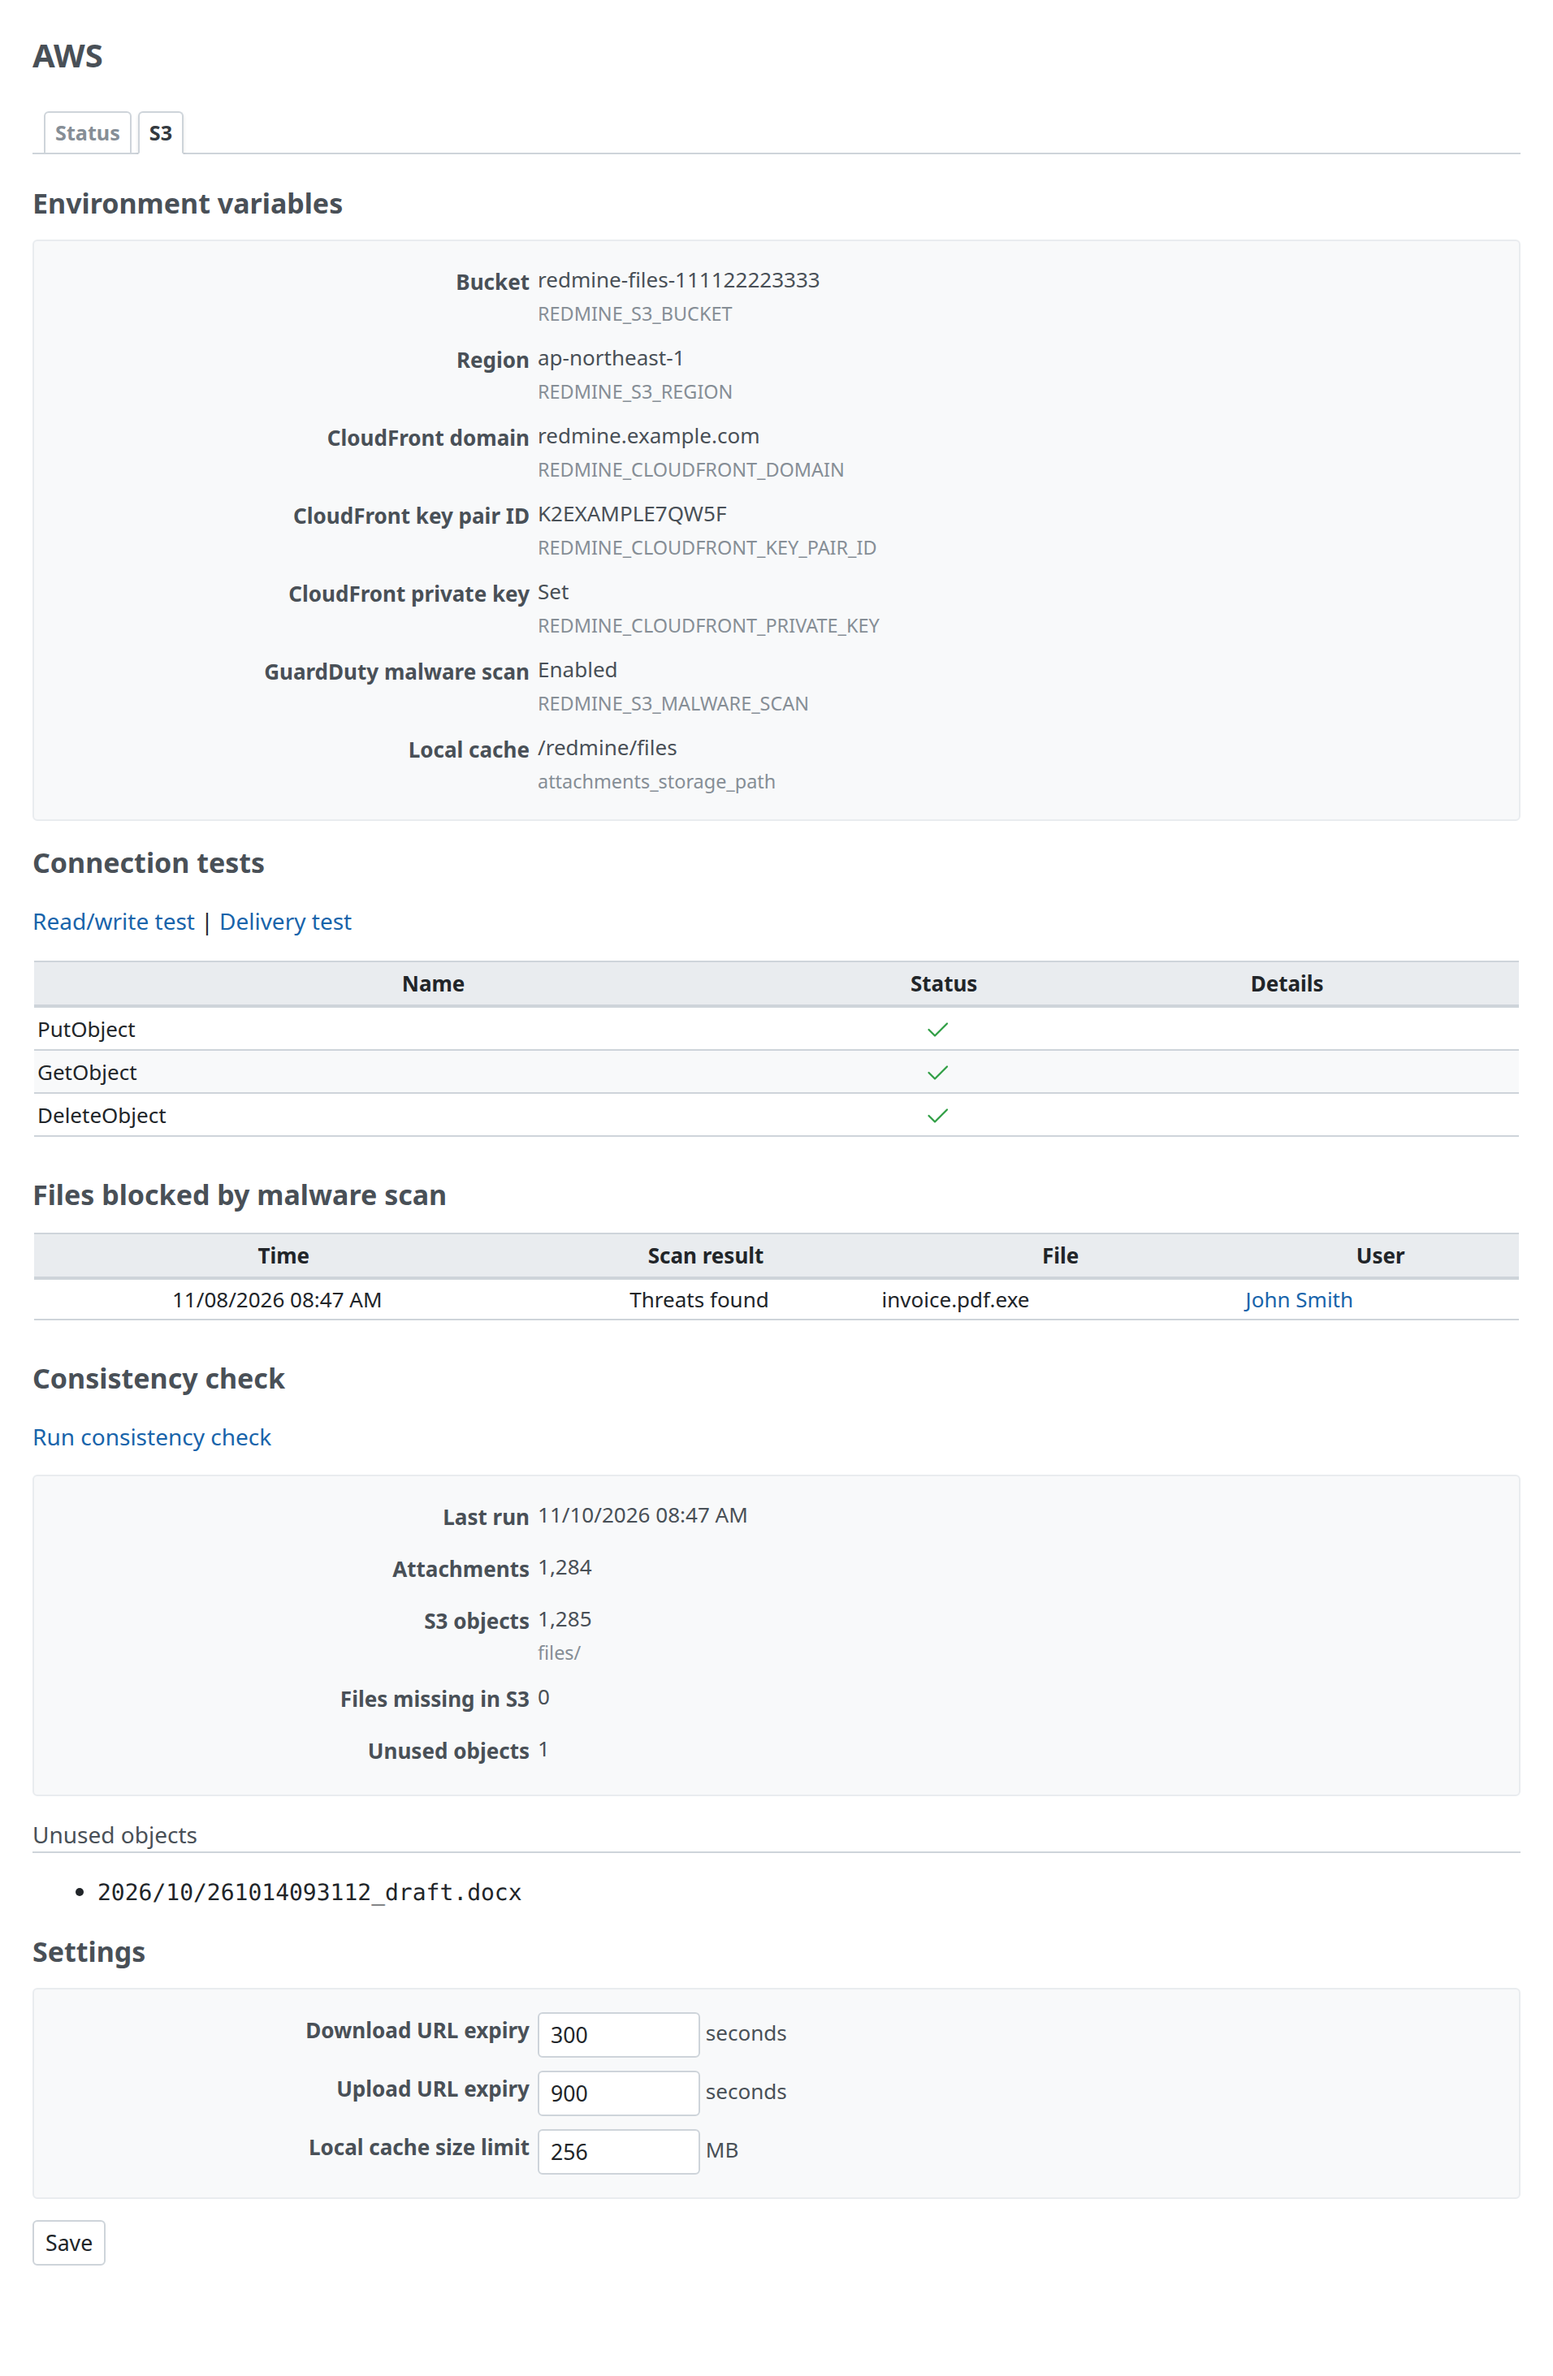
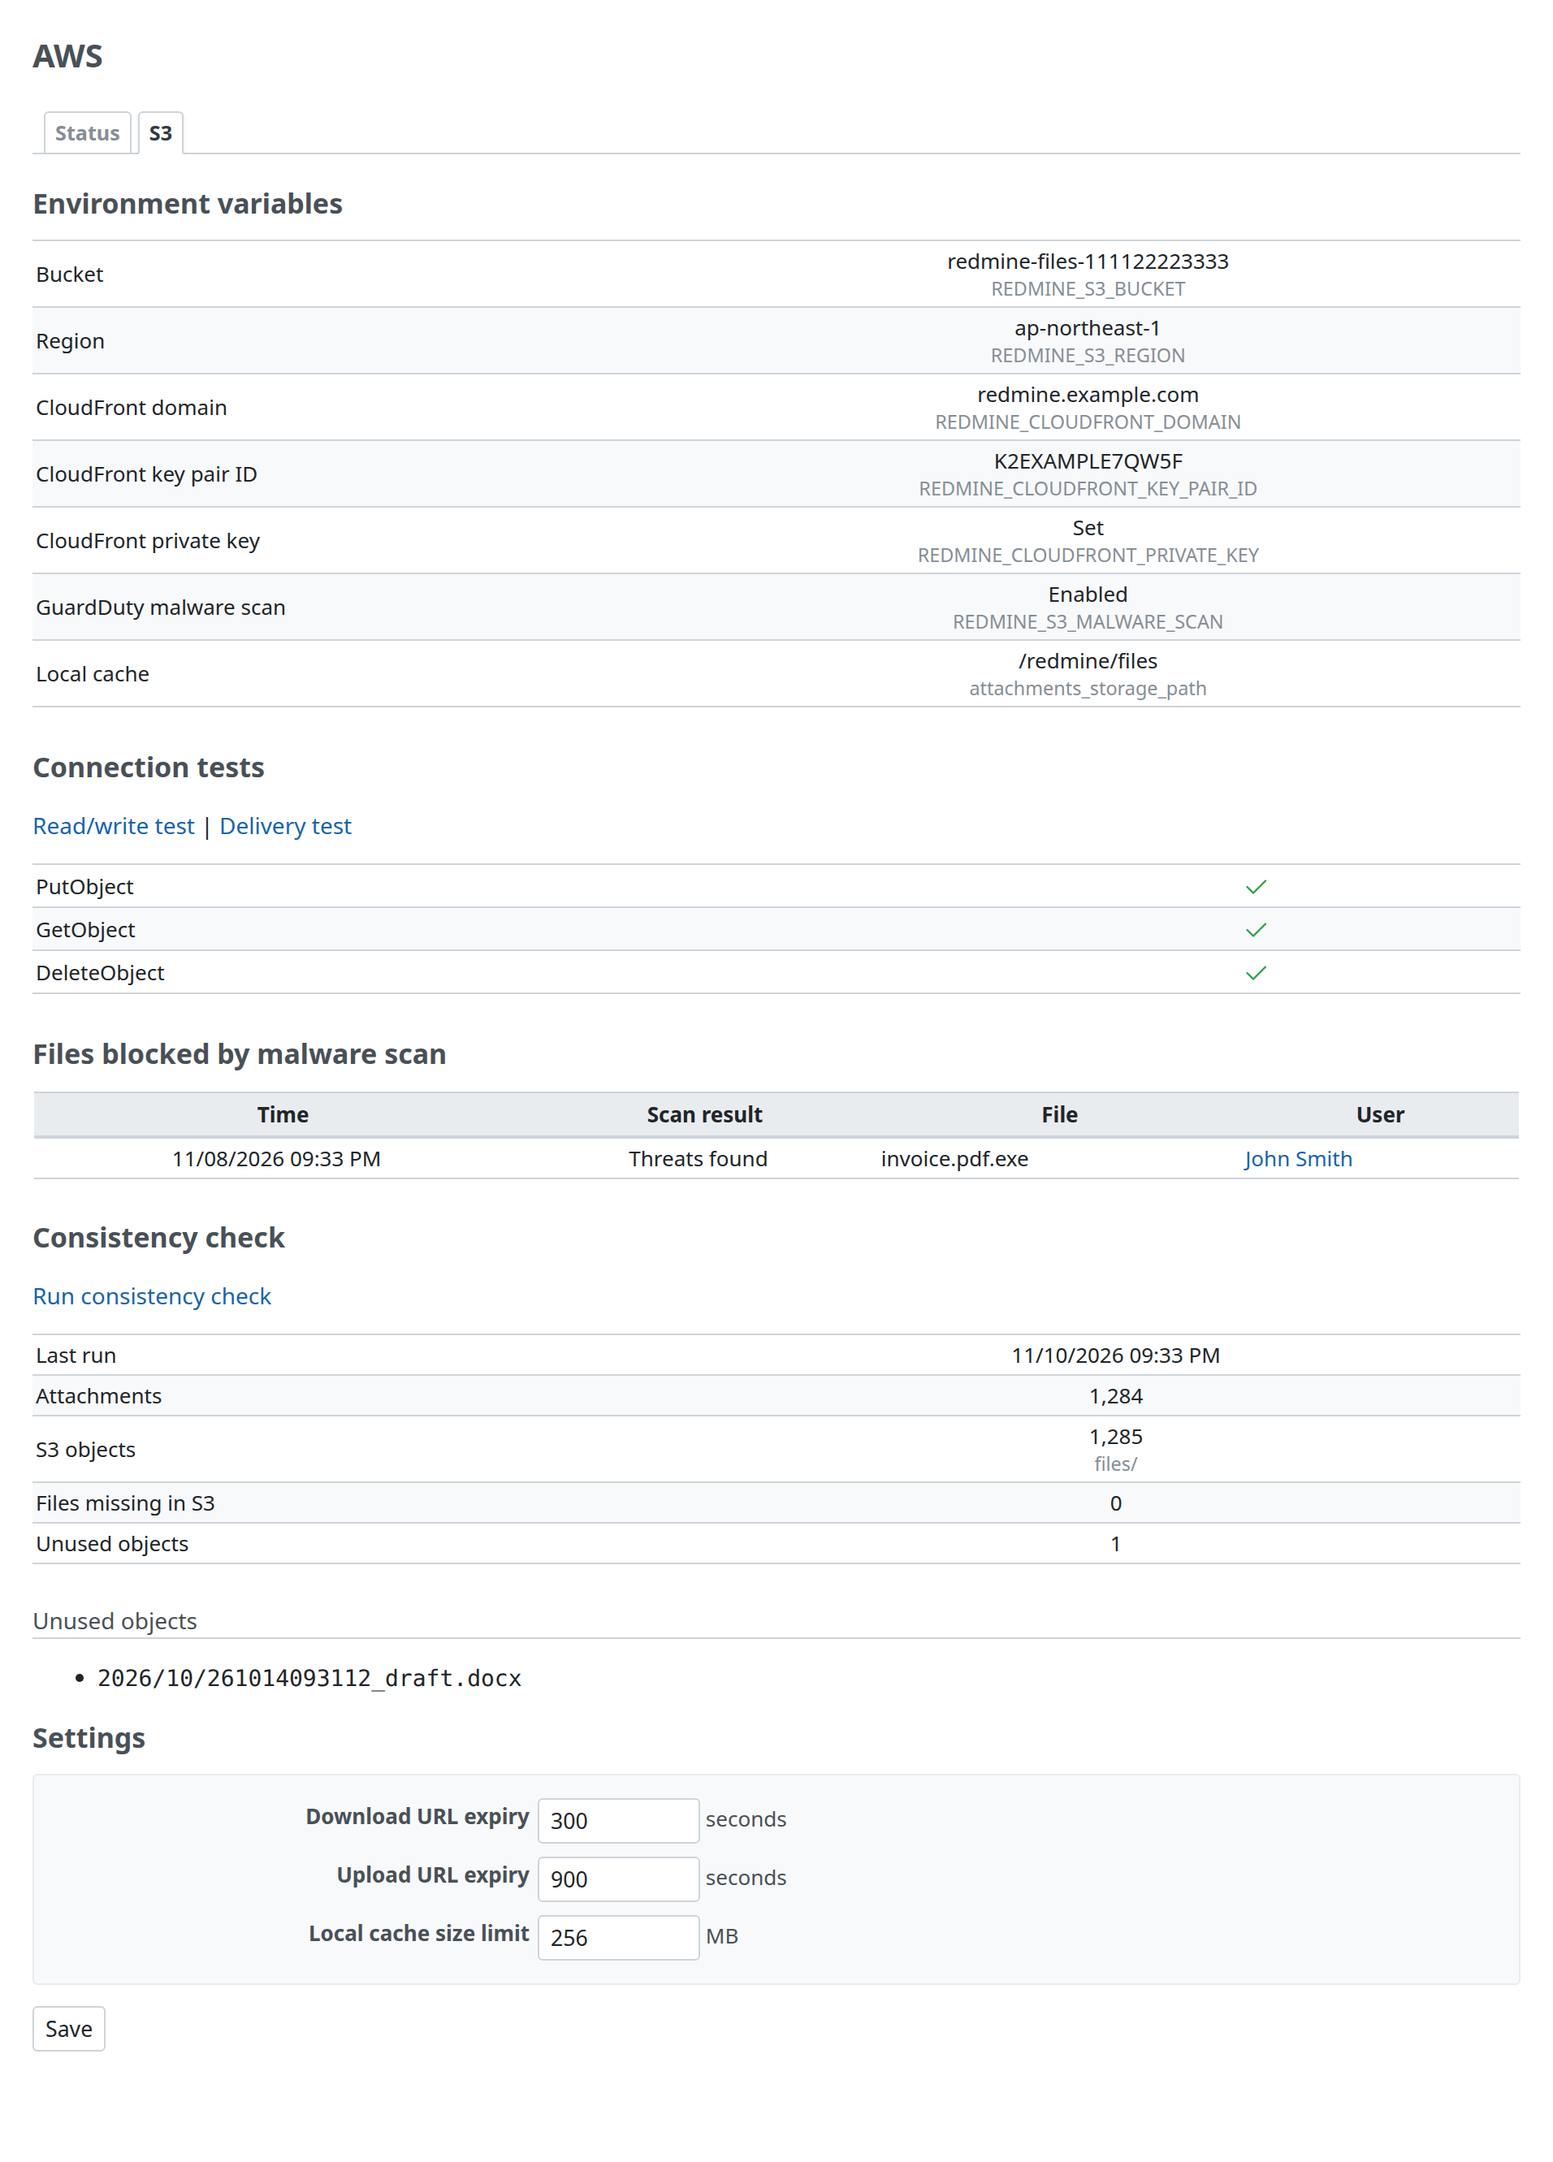
Show the S3 tab's values as Administration › Information does
The environment variables and the consistency check were laid out as a
settings form (.box.tabular), and the connection tests as a list with a
header row. Values that the tab does not edit are now a table.list
without a header row, through redmine_aws's partial aws_admin/values,
as on the Status tab: the environment variable is a note under each
value, and each test result has Redmine's OK or failed icon. The rows
are built in AwsS3AdminHelper. Screenshots retaken in English and
Japanese.

diff --git a/app/helpers/aws_s3_admin_helper.rb b/app/helpers/aws_s3_admin_helper.rb
@@ -1,0 +1,40 @@
+# frozen_string_literal: true
+
+# The rows of the values that the "S3" tab shows, for redmine_aws's partial
+# aws_admin/values (as Administration › Information shows values).
+module AwsS3AdminHelper
+  # The environment variables, each with the variable as its note.
+  def aws_s3_environment_rows
+    s3 = RedmineAws::S3
+    [[:bucket, s3::ENV_BUCKET, s3.bucket], [:region, s3::ENV_REGION, s3.region],
+     [:domain, s3::ENV_DOMAIN, s3.cloudfront_domain], [:key_pair_id, s3::ENV_KEY_PAIR_ID, s3.key_pair_id],
+     [:private_key, s3::ENV_PRIVATE_KEY, l(s3.private_key? ? :label_aws_s3_set : :label_aws_s3_not_set)],
+     [:malware_scan, s3::ENV_MALWARE_SCAN, l(s3.malware_scan? ? :label_aws_s3_enabled : :label_aws_s3_disabled)]]
+      .map { |name, env, value| { name: l(:"field_aws_s3_#{name}"), value: value || '-', note: env } }
+      .push(name: l(:field_aws_s3_storage_path), value: Attachment.storage_path, note: 'attachments_storage_path')
+  end
+
+  # The results of a connection test: [name, ok, detail].
+  def aws_s3_check_rows(results)
+    results.map { |name, ok, detail| { name: name, ok: ok, value: detail } }
+  end
+
+  # The last consistency check, running or finished.
+  def aws_s3_reconciliation_rows(result)
+    return aws_s3_running_rows(result) if result['finished_at'].blank?
+
+    [{ name: l(:field_aws_s3_finished_at), value: format_time(Time.iso8601(result['finished_at'])) }] +
+      %w[attachments objects missing_count unused_count].map { |key| aws_s3_count_row(result, key) }
+  end
+
+  # A count of the consistency check; the objects are those under files/.
+  def aws_s3_count_row(result, key)
+    { name: l(:"field_aws_s3_#{key.delete_suffix('_count')}"), value: number_with_delimiter(result[key]),
+      note: ('files/' if key == 'objects') }
+  end
+
+  def aws_s3_running_rows(result)
+    [{ name: l(:field_status), value: l(:label_aws_s3_running) },
+     { name: l(:field_aws_s3_started_at), value: format_time(Time.iso8601(result['started_at'])) }]
+  end
+end

diff --git a/test/functional/aws_s3_admin_checks_test.rb b/test/functional/aws_s3_admin_checks_test.rb
@@ -47,16 +47,16 @@ module RedmineAws
       def test_shows_the_counts_of_the_reconciliation
         show_reconciliation
 
-        assert_select '#aws-s3-reconciliation p', text: /Attachments\s*1,200/
-        assert_select '#aws-s3-reconciliation p', text: %r{S3 objects\s*1,201\s*files/}
-        assert_select '#aws-s3-reconciliation p', text: /Files missing in S3\s*1/
-        assert_select '#aws-s3-reconciliation p', text: /Unused objects\s*2/
+        assert_select 'table.list.values.reconciliation tr', text: /Attachments\s*1,200/
+        assert_select 'table.list.values.reconciliation tr', text: %r{S3 objects\s*1,201\s*files/}
+        assert_select 'table.list.values.reconciliation tr', text: /Files missing in S3\s*1/
+        assert_select 'table.list.values.reconciliation tr', text: /Unused objects\s*2/
       end
 
       def test_shows_the_time_and_the_keys_of_the_reconciliation
         show_reconciliation
 
-        assert_select '#aws-s3-reconciliation p', text: /Last run\s*2026-11-06 \d\d:44/
+        assert_select 'table.list.values.reconciliation tr', text: /Last run\s*2026-11-06 \d\d:44/
         assert_not_includes response.body, '2026-11-06T22:44:01Z'
         assert_select 'li code', text: 'files/2026/11/a'
       end
@@ -66,8 +66,8 @@ module RedmineAws
         with_s3(stub_client) do
           with_settings(date_format: '%Y-%m-%d', time_format: '%H:%M') { get :show }
 
-          assert_select '#aws-s3-reconciliation p', text: /Status\s*Running/
-          assert_select '#aws-s3-reconciliation p', text: /Started at\s*2026-11-06 \d\d:40/
+          assert_select 'table.list.values.reconciliation tr', text: /Status\s*Running/
+          assert_select 'table.list.values.reconciliation tr', text: /Started at\s*2026-11-06 \d\d:40/
         end
       end
 

diff --git a/test/functional/aws_s3_admin_values_test.rb b/test/functional/aws_s3_admin_values_test.rb
@@ -1,0 +1,34 @@
+# frozen_string_literal: true
+
+require_relative '../test_helper'
+require_relative '../support/admin_controller_setup'
+
+module RedmineAws
+  module S3
+    # The values that the "S3" tab shows but does not edit, as Administration ›
+    # Information shows them: redmine_aws's partial aws_admin/values, a
+    # table.list without a header row.
+    class AwsS3AdminValuesTest < Redmine::ControllerTest
+      include S3::TestHelper
+      include AdminControllerSetup
+
+      def test_the_environment_variables
+        with_s3(stub_client) { get :show }
+
+        assert_select 'table.list.values.environment th', 0
+        assert_select 'table.list.values.environment tr', 7
+        assert_select 'table.list.values.environment tr td.value em.info', text: 'REDMINE_S3_BUCKET'
+        assert_select 'div.box.tabular', 1, 'only the settings form'
+      end
+
+      def test_the_results_of_a_connection_test
+        results = [['PutObject', true, ''], ['GetObject', false, 'Aws::S3::Errors::NoSuchKey']]
+        with_s3(stub_client) { get :show, flash: { aws_s3_checks: results } }
+
+        assert_select 'table.list.values.checks th', 0
+        assert_select 'table.list.values.checks tr.ok td.tick span.icon-ok'
+        assert_select 'table.list.values.checks tr.failed td.value', text: 'Aws::S3::Errors::NoSuchKey'
+      end
+    end
+  end
+end

diff --git a/test/functional/aws_s3_admin_controller_test.rb b/test/functional/aws_s3_admin_controller_test.rb
@@ -25,11 +25,11 @@ module RedmineAws
           get :show
 
           assert_response :success
-          assert_select 'div.box.tabular p', text: /redmine-files/
-          assert_select 'div.box.tabular p', text: /#{Regexp.escape(DOMAIN)}/
-          assert_select 'div.box.tabular p', text: /Set\s*REDMINE_CLOUDFRONT_PRIVATE_KEY/
+          assert_select 'table.list.values.environment tr', text: /redmine-files/
+          assert_select 'table.list.values.environment tr', text: /#{Regexp.escape(DOMAIN)}/
+          assert_select 'table.list.values.environment tr', text: /Set\s*REDMINE_CLOUDFRONT_PRIVATE_KEY/
           assert_not_includes response.body, 'PRIVATE KEY'
-          assert_select 'div.box.tabular p', text: /GuardDuty malware scan\s*Disabled/
+          assert_select 'table.list.values.environment tr', text: /GuardDuty malware scan\s*Disabled/
         end
       end
 

diff --git a/test/screenshots/screens.rb b/test/screenshots/screens.rb
@@ -58,7 +58,7 @@ module RedmineAws
         each_language do |language|
           visit '/admin/aws/s3'
           click_link I18n.t(:button_aws_s3_read_write, locale: language)
-          assert_selector '#aws-s3-checks'
+          assert_selector 'table.list.values.checks'
           shoot 's3-admin', language
         end
       end

diff --git a/app/controllers/aws_s3_admin_controller.rb b/app/controllers/aws_s3_admin_controller.rb
@@ -5,6 +5,8 @@
 class AwsS3AdminController < ApplicationController
   include RedmineAws::AdminTab
 
+  helper :aws_s3_admin
+
   before_action :require_s3, except: %i[show update]
 
   def show

diff --git a/docs/admin.md b/docs/admin.md
@@ -10,10 +10,10 @@ This is the administration page of Redmine AWS S3. Only Redmine administrators c
 
 | Section | Contents | Source |
 | --- | --- | --- |
-| Environment variables | "Bucket", "Region", "CloudFront domain", "CloudFront key pair ID", "CloudFront private key" ("Set" or "Not set"), "GuardDuty malware scan" ("Enabled" or "Disabled") and "Local cache". Each value has the name of its environment variable next to it, and "Local cache" has `attachments_storage_path` | Environment variables ([setup.md](setup.md#configuration)) and `config/configuration.yml`, display only. The private key itself is not shown |
-| Connection tests | "Read/write test" puts a test object (`tmp/healthcheck/<UUID>`), reads it and deletes it. "Delivery test" puts a test object, makes a signed URL for it under `/tmp/bulk/`, and requests it through CloudFront, with and without the signature. The results are shown in a table with the columns Name, Status and Details ([below](#connection-tests)) | Text links. The delivery test deletes its object afterwards |
+| Environment variables | "Bucket", "Region", "CloudFront domain", "CloudFront key pair ID", "CloudFront private key" ("Set" or "Not set"), "GuardDuty malware scan" ("Enabled" or "Disabled") and "Local cache". Each value has the name of its environment variable next to it, and "Local cache" has `attachments_storage_path`. Values that the page does not edit (these, the results of the connection tests and of the consistency check) are a list without a header row, as on Administration › Information (the partial `aws_admin/values` of [Redmine AWS](https://redmine-kit.github.io/redmine_aws/api.html#values)) | Environment variables ([setup.md](setup.md#configuration)) and `config/configuration.yml`, display only. The private key itself is not shown |
+| Connection tests | "Read/write test" puts a test object (`tmp/healthcheck/<UUID>`), reads it and deletes it. "Delivery test" puts a test object, makes a signed URL for it under `/tmp/bulk/`, and requests it through CloudFront, with and without the signature. Each result is a row with the name, Redmine's OK or failed icon, and the details ([below](#connection-tests)) | Text links. The delivery test deletes its object afterwards |
 | Files blocked by malware scan | The last 20 files that the malware scan blocked, with the columns "Time", "Scan result", "File" and "User" (a link to the Redmine user). Shown when "GuardDuty malware scan" is "Enabled" or a blocked file is recorded | Kept in the plugin settings ([attachments.md](attachments.md#malware-scan)) |
-| Consistency check | "Run consistency check" starts the job `AwsS3ReconcileJob`, which lists `files/` and compares it with the attachments in the database. While it runs, the box shows "Status: Running" and "Started at". When it is done, it shows "Last run", "Attachments", "S3 objects" (under `files/`), "Files missing in S3" and "Unused objects", then the lists under those two names (the first 100 of each) | A text link. The result is kept in the plugin settings, so every environment shows the latest one |
+| Consistency check | "Run consistency check" starts the job `AwsS3ReconcileJob`, which lists `files/` and compares it with the attachments in the database. While it runs, the list shows "Status: Running" and "Started at". When it is done, it shows "Last run", "Attachments", "S3 objects" (under `files/`), "Files missing in S3" and "Unused objects", then the lists under those two names (the first 100 of each) | A text link. The result is kept in the plugin settings, so every environment shows the latest one |
 | Settings | "Download URL expiry" and "Upload URL expiry" (seconds), "Local cache size limit" (MB) | Plugin settings, changed on the page. Positive whole numbers only; invalid input is not saved and stays in the form, under an error at the top of the tab that lists the labels of the wrong fields |
 
 <a id="connection-tests"></a>
@@ -29,7 +29,7 @@ The results of the connection tests:
 | Unsigned URL denied | Delivery test | The same URL without the signature returns 401 or 403 |
 | Delivery | Delivery test | Shown only when the test stops with an error |
 
-- **Failed calls:** A call that fails shows only the class of the error in the Details column (for example `Aws::S3::Errors::AccessDenied`), as the "Status" tab of Redmine AWS does. The error's message, which may name hosts, accounts or resources, is not shown on the page; Redmine's log has the test's name with the class and the message (`[redmine_aws_s3] connection test PutObject failed: …`).
+- **Failed calls:** A call that fails shows only the class of the error in the details (for example `Aws::S3::Errors::AccessDenied`), as the "Status" tab of Redmine AWS does. The error's message, which may name hosts, accounts or resources, is not shown on the page; Redmine's log has the test's name with the class and the message (`[redmine_aws_s3] connection test PutObject failed: …`).
 
 - **Use:** After moving attachments from an older Redmine ([migration.md](https://redmine-kit.github.io/serverless/migration.html)), the consistency check lets you check that nothing is missing.
 - **Status tab:** When the bucket is set, the "Connection test" on the "Status" tab of Redmine AWS has an "S3" row. It calls `HeadBucket` on the attachment bucket and shows the bucket name.
